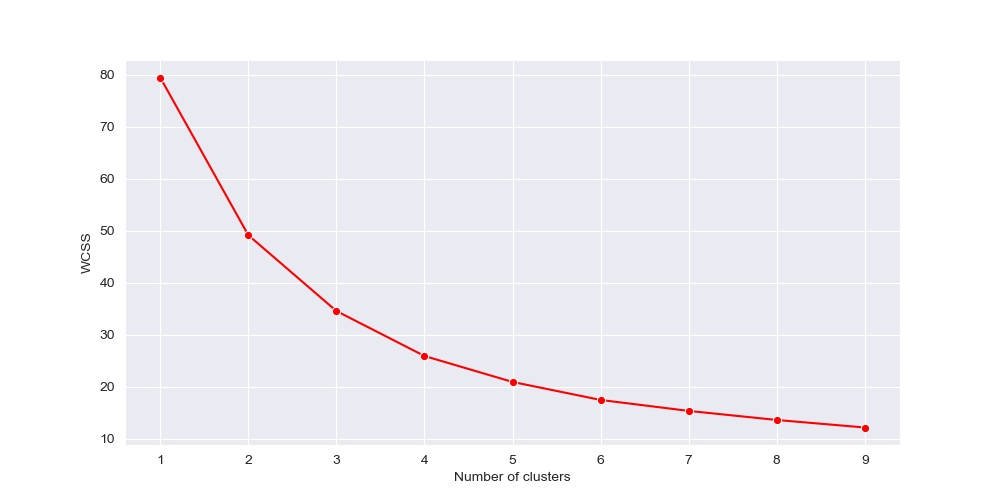
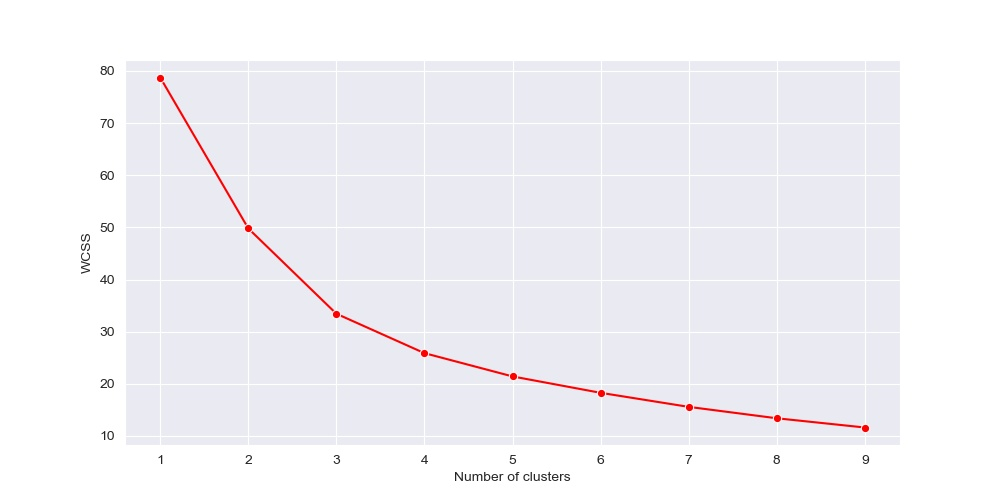
Modified SGO algorithm

diff --git a/src/SGO.py b/src/SGO.py
@@ -1,6 +1,11 @@
-from random import uniform
+from math import ceil, dist, floor
+from random import choice, random, uniform
+import matplotlib.pyplot as plt
 
-from Logger import log
+from sklearn.utils import gen_batches
+from src.Helpers import get_min_index, normalizer
+
+from src.Logger import log
 
 class SGO:
     """
@@ -10,8 +15,9 @@ class SGO:
         self._nclusters = nclusters
         self._nodes = nodes
         self._cluster = cluster_obj
-        self._cluster_heads = []
         self._population = None
+        self._gbest_pop = None
+        self._fitness_vector = []
 
     def _initialize_population(self):
         """
@@ -31,12 +37,138 @@ class SGO:
         Generate the cluster heads from the population values
         """
 
-        cluster_size = [len(value) for _, value in self._cluster.candidate_nodes.items()]
-        cluster_heads = [a * b for a, b in zip(row, cluster_size)]
+        cluster_size = [len(value) for value in self._cluster.candidate_nodes.values()]
+        cluster_heads = [min(floor(a * b), b-1) for a, b in zip(row, cluster_size)]
         
         log(f"Cluster Heads : {cluster_heads}")
         
         return cluster_heads
+    
+    def _generate_fitness_vector(self):
+        """
+        Generate the fitness vector and initialize it
+        """
 
-    def calculate_fitness(self):
-        pass
+        for row in self._population:
+            cluster_heads = self._generate_cluster_heads(row)
+            fitness = self._calculate_fitness_of_row(cluster_heads)
+            self._fitness_vector.append(fitness)
+
+    def _calculate_fitness_of_row(self, cluster_heads):
+        """
+        Calculate the fitness value for a person in the population
+        """
+        x, y, z = 0.2, 0.3, 0.5
+
+        dist1 = self._cluster.calculate_distance_1(cluster_heads)
+        dist2 = self._cluster.calculate_distance_2(cluster_heads)
+        energy_cluster = self._cluster.calculate_energy_consumed_for_cluster_nodes(cluster_heads)
+        energy_cluster_head = self._cluster.calculate_energy_consumed_for_cluster_head(cluster_heads)
+
+        total_energy = energy_cluster + energy_cluster_head
+
+        dist1_norm = normalizer(dist1)
+        dist2_norm = normalizer(dist2)
+        total_energy_norm = normalizer(total_energy)
+
+        log(f"Dist1_norm : {dist1_norm} Dist2_norm : {dist2_norm} Total_energy_norm : {total_energy_norm}")
+        f = x*dist1_norm + y*dist2_norm + z*total_energy_norm
+
+        log(f"Fitness value : {f}")
+        return f
+
+    def _calculate_X_new(self, x_old, g_best_pop_val):
+        """
+        Calculate the new X value
+        """        
+        c_val = 0.2
+        r_val = random()
+
+        return (c_val*x_old) + (r_val*(g_best_pop_val - x_old))
+
+    def _calculate_gbest(self):
+        """
+        Identify the gbest and initialize the gbest object with population
+        """
+        gbest_index = get_min_index(self._fitness_vector)
+        self._gbest_pop = self._population[gbest_index]
+
+    def improve_phase(self):
+        log("------IMPROVING PHASE-------")
+        """
+        Perform the improving phase and return the new matrix
+        """
+
+        new_fitness_vector = []
+        new_population = []
+
+        for (i, row) in enumerate(self._population):
+            log(f"Improve Phase for row {i}")
+            new_row = []
+
+            # Calculating new X value for row i
+            for val, g_best_pop_val in zip(row, self._gbest_pop):
+                new_row.append(min(abs(self._calculate_X_new(val, g_best_pop_val)), 1))
+
+            new_row_fitness = self._calculate_fitness_of_row(self._generate_cluster_heads(row=new_row))
+            if new_row_fitness < self._fitness_vector[i]:
+                new_fitness_vector.append(new_row_fitness)
+                new_population.append(new_row)
+            else: 
+                new_fitness_vector.append(self._fitness_vector[i])
+                new_population.append(row)
+
+        # Reinitalize the fitness vector and the population 
+        self._fitness_vector = new_fitness_vector
+        self._population = new_population
+    
+    def acquiring_phase(self):
+        log("------ACQUIRING PHASE-------")
+        """
+        Perform the acquiring phase step of SGO algorithm
+        """
+
+        for i in range(self._nodes):
+            X_r_index = choice([x for x in range(self._nodes) if x != i])
+
+            r1_val = uniform(0, 1)
+            r2_val = uniform(0, 1)
+
+            x_new = []
+            if self._fitness_vector[X_r_index] < self._fitness_vector[i]:
+                for x, x_r, x_gbest in zip(self._population[i], self._population[X_r_index], self._gbest_pop):
+                    x_new.append(min(abs(x + (r1_val * (x_r-x)) + (r2_val * (x_gbest - x))), 1))
+            
+            else:
+                for x, x_r, x_gbest in zip(self._population[i], self._population[X_r_index], self._gbest_pop):
+                    x_new.append(min(abs(x + (r1_val * (x-x_r)) + (r2_val * (x_gbest - x))), 1))
+
+            new_fitness_of_row = self._calculate_fitness_of_row(self._generate_cluster_heads(x_new))
+            if new_fitness_of_row < self._fitness_vector[i]:
+                self._fitness_vector[i] = new_fitness_of_row
+                self._population[i] = x_new
+
+    def iterate(self, stopping_criteria):
+        """
+        Interate over the steps of SGO until the stopping criteria has been met
+        """
+        self._initialize_population()
+        self._generate_fitness_vector()
+        self._calculate_gbest()
+        for i in range(stopping_criteria):
+
+            # Perform the improving phase
+            self.improve_phase()
+            self._calculate_gbest()
+
+            # Perform the acquring phase
+            self.acquiring_phase()
+            self._calculate_gbest()
+
+            # Plot the fitness value of the gbest of the iteration
+            plt.plot([i], [self._calculate_fitness_of_row(self._generate_cluster_heads(self._gbest_pop))], 'ro')
+            
+        # The solution is generated by the best population 
+        plt.savefig("images/Fitness_vs_Iterations.jpg")
+        solution = self._generate_cluster_heads(self._gbest_pop)
+        return solution 

diff --git a/src/Clusters.py b/src/Clusters.py
@@ -3,7 +3,7 @@ import seaborn as sns
 import matplotlib.pyplot as plt 
 from sklearn.cluster import KMeans
 from math import sqrt
-from Helpers import calculate_euclidean_distance
+from src.Helpers import calculate_distance_from_base_station, calculate_euclidean_distance
 from src.Logger import log
 from random import choice 
 
@@ -78,7 +78,8 @@ class Clusters:
         plt.ylabel('Y-Axis')
         for i in range(nclusters):
             sns.scatterplot(x=self.data[y_kmeans == i, 0], y=self.data[y_kmeans == i, 1], color = "#"+''.join(choice('0123456789ABCDEF') for j in range(6)), label = f'Cluster {i}',s=50)
-        
+        print(self.base_station)
+        sns.scatterplot(x=[self.base_station[0]], y=[self.base_station[1]], color="#"+''.join(choice('0123456789ABCDEF') for j in range(6)), s=100, label='Base Station')
         log("Saving generated clusters to /images/cluster.jpg...")
         plt.savefig("images/cluster.jpg")
         plt.close()
@@ -109,6 +110,7 @@ class Clusters:
                 total_dist += calculate_euclidean_distance(nodes[cluster_head], obj)
             dist1.append(total_dist/len(nodes))
 
+        log(f"Distance 1 : {dist1}")
         return max(dist1)
 
     def calculate_distance_2(self, cluster_heads):
@@ -117,9 +119,38 @@ class Clusters:
         """
 
         dist2 = []
-        nodes = self.candidate_nodes.values()
-        for cluster_head in cluster_heads:
+        for cluster_head, nodes in zip(cluster_heads, self.candidate_nodes.values()):
             cluster_head_dim = nodes[cluster_head]
-            dist2.append(sqrt(((cluster_head_dim[0] - self.base_station[0])**2) + ((cluster_head_dim[1] - self.base_station[1])**2) + self.base_station[2]**2))
+            dist2.append(calculate_distance_from_base_station(cluster_head_dim, self.base_station))
 
+        log(f"Distance 2 : {dist2}")
         return max(dist2)
+    
+    def calculate_energy_consumed_for_cluster_nodes(self, cluster_heads, k_bits=200):
+        """
+        Calculate and return the total energy in a cluster
+        """
+
+        energy = 0.0
+        nodes_list = self.candidate_nodes.values()
+        for cluster_head, nodes in zip(cluster_heads, nodes_list):
+            cluster_head_dim = nodes[cluster_head]
+            for node in nodes:
+                energy += (500*k_bits*k_bits*(calculate_euclidean_distance(cluster_head_dim, node)**2))/(pow(10, -24))
+
+        log(f"Total Cluster Energy : {energy}")
+        return energy
+
+    def calculate_energy_consumed_for_cluster_head(self, cluster_heads, k_bits=200):
+        """
+        Calculate the energy consumed to transmit by cluster head to the base station
+        """
+        energy = 0.0
+
+        node_list = self.candidate_nodes.values()
+        for cluster_head, nodes in zip(cluster_heads, node_list):
+            cluster_head_dim = nodes[cluster_head]
+            energy += (50*0.0013*k_bits*k_bits*(calculate_distance_from_base_station(cluster_head_dim, self.base_station)**4))/(pow(10, -24))
+        
+        log(f"Total Cluster Head Energy : {energy}")
+        return energy 

diff --git a/src/Helpers.py b/src/Helpers.py
@@ -2,11 +2,18 @@ from src.Logger import log
 from random import random 
 from os import chdir
 from os.path import abspath, join
-from math import sqrt 
+from math import sqrt
+from math import log as math_log
 
 def calculate_euclidean_distance(a, b):
-    return sqrt(((a[0] - b[0])**2) + ((a[1] - b[1])**2))
+    return sqrt(((a[0] - b[0])**2) + ((a[1] - b[1])**2))*1000
     
+def calculate_distance_from_base_station(a, base_station):
+    return sqrt(((a[0] - base_station[0]) ** 2) + ((a[1] - base_station[1]) ** 2) + (base_station[2]**2))*1000
+
+def normalizer(val):
+    return math_log(val)
+
 def generate_random_row(col):
     '''
     genarate a random row of 0 and 1 of size 'row'

diff --git a/runner.py b/runner.py
@@ -1,3 +1,4 @@
+from src.SGO import SGO
 from algorithm import run_algorithm
 from src.Clusters import Clusters
 from src.Logger import log
@@ -9,6 +10,10 @@ if __name__ == "__main__":
     candidate_nodes = cluster.run_workflow()
     log(candidate_nodes)
 
-    src, dest = 0, 10
-    run_algorithm(src, dest)
+    sgo_obj = SGO(n, cluster.cluster_head_count, cluster)
+
+    stopping_criteria = int(input("Enter number of rounds for stopping criteria : "))
+    solution = sgo_obj.iterate(stopping_criteria=stopping_criteria)
+
+    print(f"Solution : {solution}")
 
